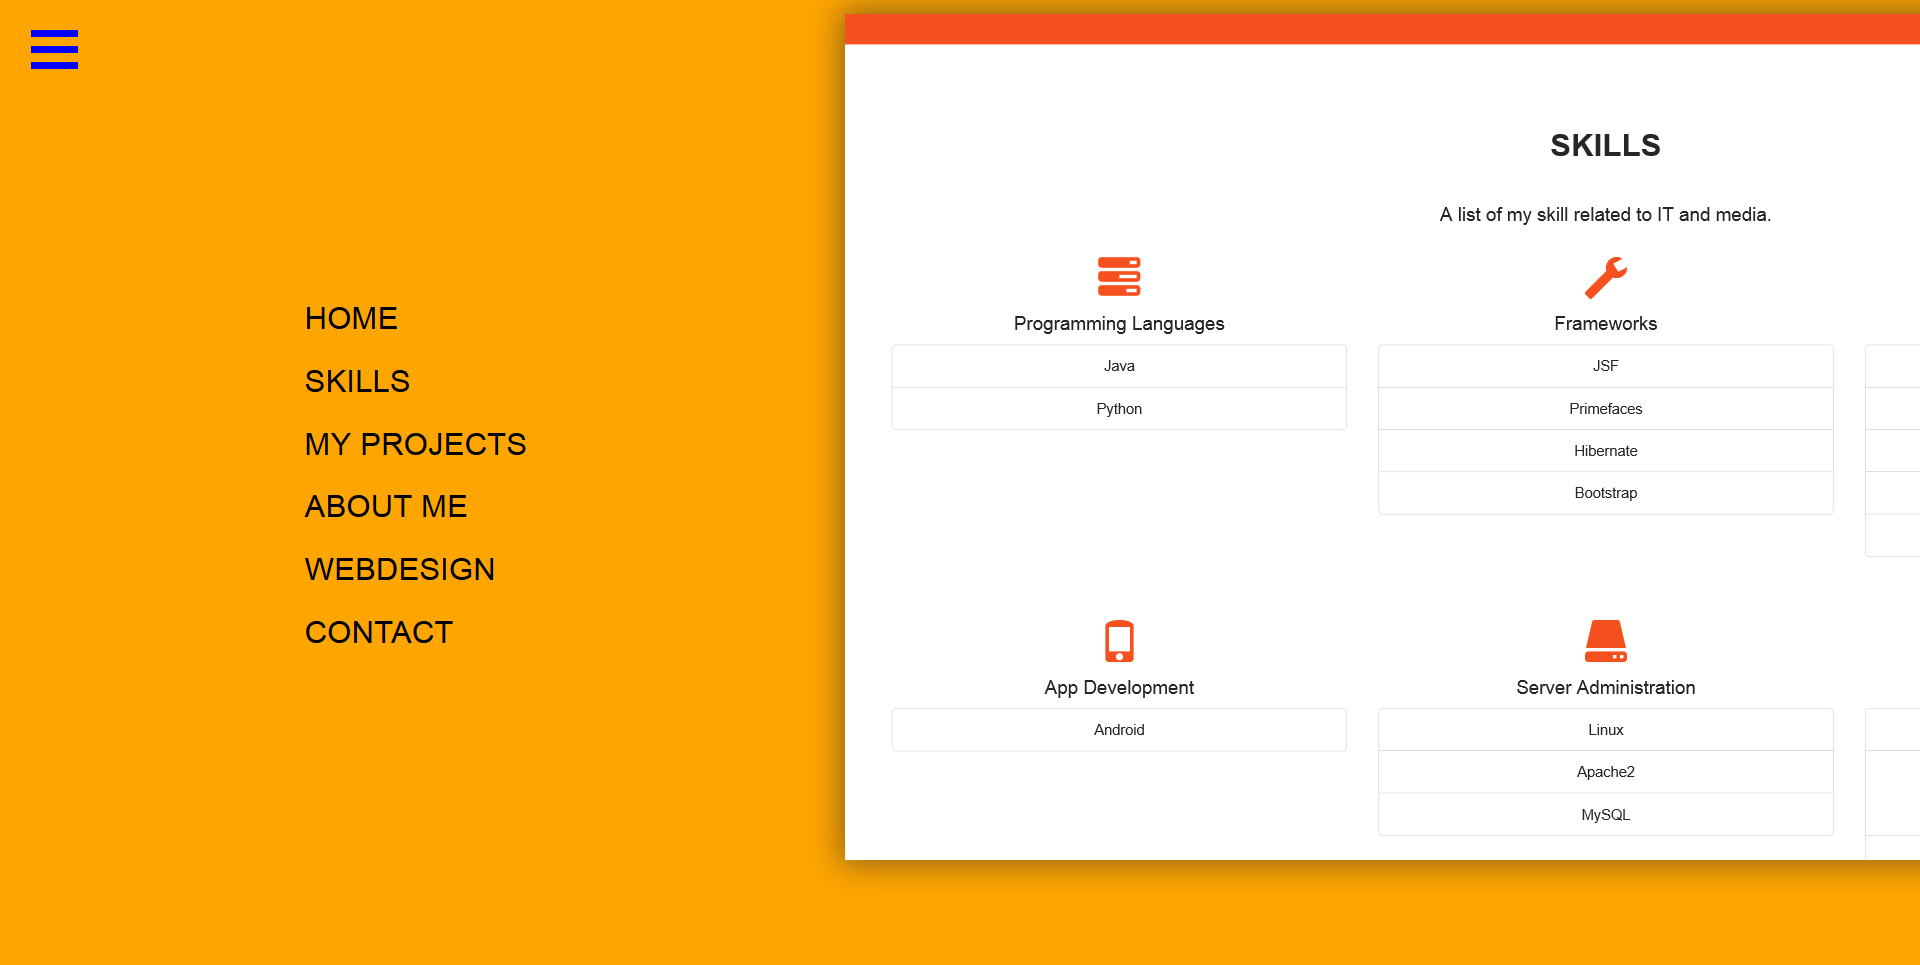
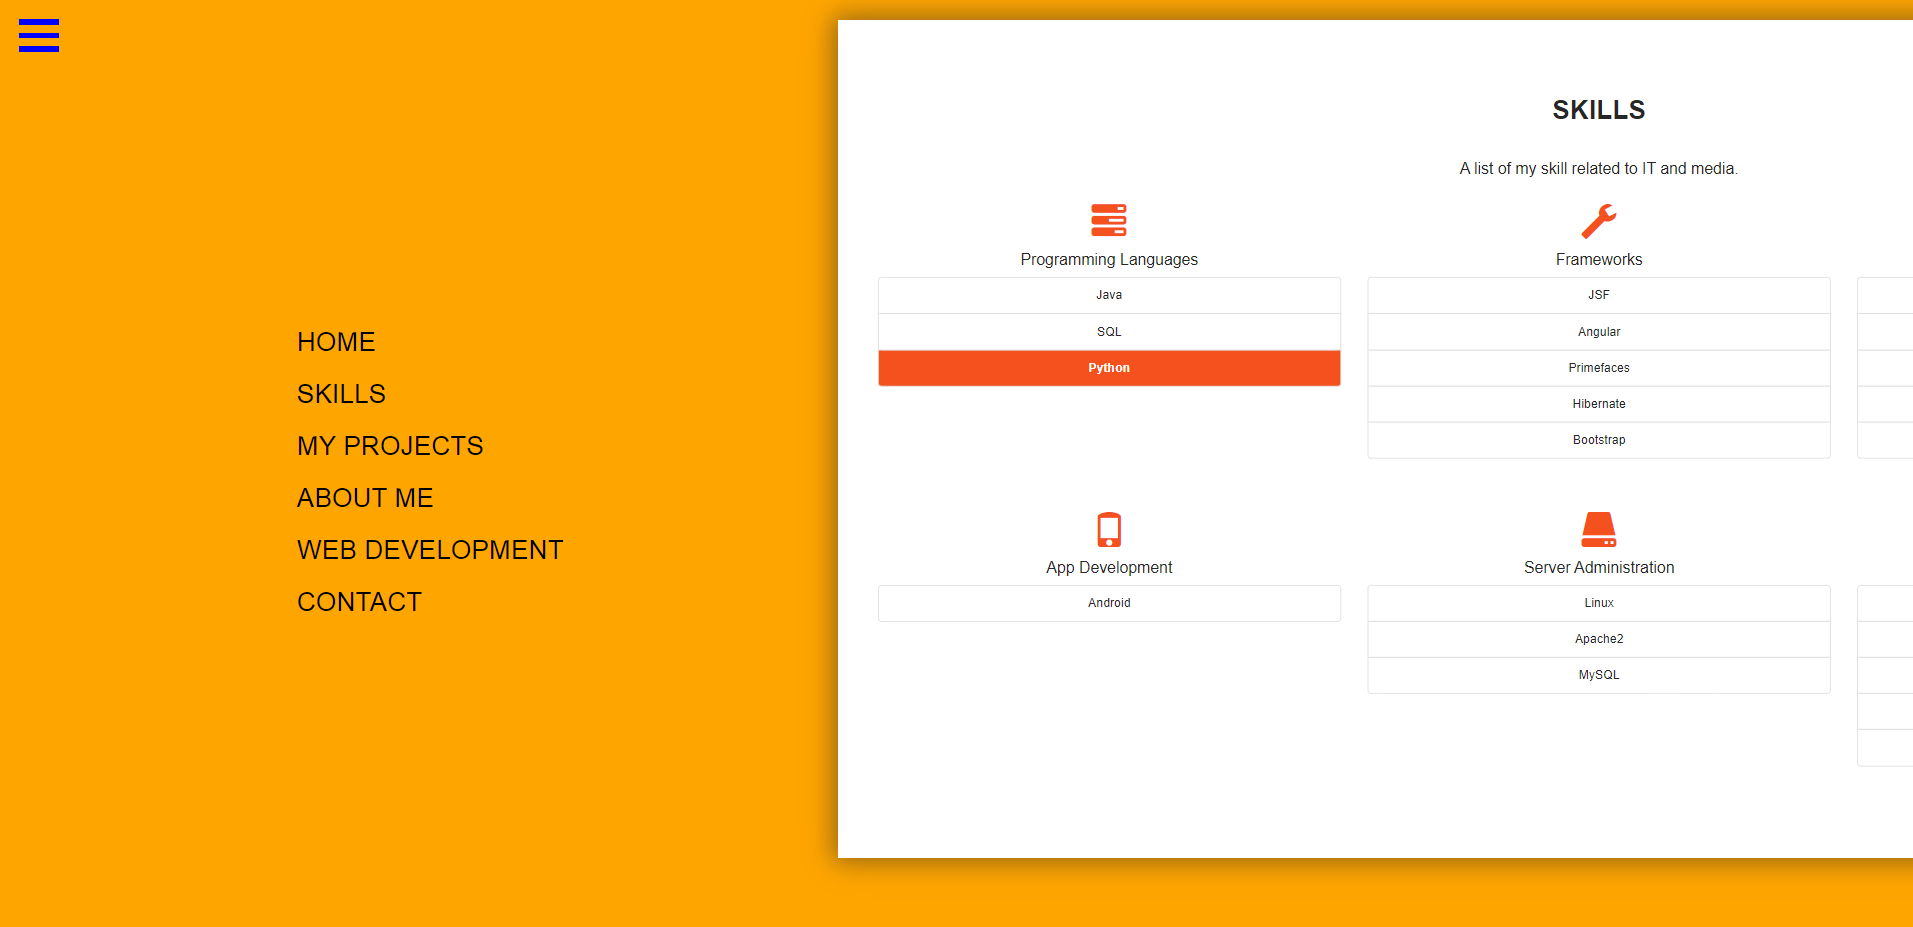
new project add

diff --git a/js/contact_app.js b/js/contact_app.js
@@ -1,45 +1,66 @@
-$(function () {
-    var form = $('#email-contact-form');
-    var formMessages = $('#form-messages');
+(function loadContactForm() {
+    var contactFormFields = {
+        name: document.getElementById("name"),
+        email: document.getElementById("email"),
+        message: document.getElementById("message"),
+        submitButton: document.getElementById("submitcontactform"),
+    };
+    var formMessages = document.getElementById("form-messages");
 
-    // event listener for the contact form
-    $(form).submit(function (event) {
-        // Stop the browser from submitting the form
+    contactFormFields.submitButton.addEventListener("click", function (event) {
         event.preventDefault();
+        var contactFormRequest = new XMLHttpRequest();
+        var contactFormRequestData;
 
-        // Serializing the form data.
-        var formData = $(form).serialize();
-        //Submit form through AJAX
-        $.ajax({
-            type: 'POST',
-            url: $(form).attr('action'),
-            data: formData
-        }).done(function (response) {
-            // Add sucess message class to the formmessages Div
-            $(formMessages).removeClass('alert alert-danger alert-dismissible')
-            $(formMessages).addClass('alert alert-success alert-dismissible')
-            //Setting the message text
-            $(formMessages).text(response)
-            //clear the contact form
-            $("#name").val('');
-            $("#emal").val('');
-            $("#message").val('');
-        }).fail(function (data) {
-            // Add error message class to the formmessages Div
-            $(formMessages).removeClass('alert alert-success alert-dismissible');
-            $(formMessages).addClass('alert alert-danger alert-dismissible');
-            // Set the message text.
-            if (data.responseText !== '') {
-                if ((data.responseText).length > 20) {
-                    //Sending php emails does not work on this server
-                    $(formMessages).text('' + data.responseText);
-                } else {
-                    $(formMessages).text(' ' + data.responseText);
-                }
+        if (typeof HtmlSanitizer !== "undefined") {
+            //Sanitize output with HtmlSanitizer - https://github.com/jitbit/HtmlSanitizer
+            contactFormRequestData = "name=" + HtmlSanitizer.SanitizeHtml(contactFormFields.name.value) + "&email=" + HtmlSanitizer.SanitizeHtml(contactFormFields.email.value) + "&message=" + HtmlSanitizer.SanitizeHtml(contactFormFields.message.value);
+        } else {
+            contactFormRequestData = "name=" + contactFormFields.name.value + "&email=" + contactFormFields.email.value + "&message=" + contactFormFields.message.value;
+        }
+
+        contactFormRequest.open("post", "email_contact_form.php");
+        contactFormRequest.setRequestHeader("Content-Type", "application/x-www-form-urlencoded");
+
+        contactFormRequest.onload = function () {
+
+            if (contactFormRequest.status === 200) {
+                //Success
+                formMessages.classList.remove("alert");
+                formMessages.classList.remove("alert-danger");
+                formMessages.classList.remove("alert-dismissible");
+                formMessages.classList.add("alert");
+                formMessages.classList.add("alert-success");
+                formMessages.classList.add("alert-dismissible");
+                formMessages.innerText = contactFormRequest.responseText;
+                document.getElementById("submitcontactform").style.display = "none";
+                document.getElementById("name").value = "";
+                document.getElementById("email").value = "";
+                document.getElementById("message").value = "";
             } else {
-                $(formMessages).text('Sorry. An error occured and your message could not be sent. Please check your entered values or try again later.');
+                //Fail
+                console.log("ERROR - FORM EMAIL NOT SENT");
+                formMessages.classList.remove("alert");
+                formMessages.classList.remove("alert-success");
+                formMessages.classList.remove("alert-dismissible");
+                formMessages.classList.add("alert");
+                formMessages.classList.add("alert-danger");
+                formMessages.classList.add("alert-dismissible");
+                formMessages.innerText = contactFormRequest.responseText;
             }
-        });
+        }
+        contactFormRequest.onerror = function () {
+            //Server Error
+            console.log("Server Error - FORM EMAIL NOT SENT");
+            formMessages.classList.remove("alert");
+            formMessages.classList.remove("alert-success");
+            formMessages.classList.remove("alert-dismissible");
+            formMessages.classList.add("alert");
+            formMessages.classList.add("alert-danger");
+            formMessages.classList.add("alert-dismissible");
+            formMessages.innerText = contactFormRequest.responseText;
+        }
+        contactFormRequest.send(contactFormRequestData);
     });
+}());
 
-});

diff --git a/de.html b/de.html
@@ -35,7 +35,7 @@
             <li><a href="#skills">Fähigkeiten</a></li>
             <li><a href="#projects">Projekte</a></li>
             <li><a href="#aboutme">Über mich</a></li>
-            <li><a href="#webdesign">Webdesign</a></li>
+            <li><a href="#webdevelopment">Web-Entwicklung</a></li>
             <li><a href="#contact">Kontakt</a></li>
         </ul>
     </nav>
@@ -626,8 +626,8 @@
             </div>
         </div>
 
-        <div id="webdesign" class="container-content container-grey">
-            <h2 class="section-content-header">Webdesign</h2>
+        <div id="webdevelopment" class="container-content container-grey">
+            <h2 class="section-content-header">Web Development</h2>
             <br>
             <div class="container-fluid">
                 <div class="row">
@@ -642,7 +642,7 @@
                             <br>
                             <br>
                             <br>
-                            Sie können einige meiner erstellten Webseiten auf meiner anderen Webdesign
+                            Sie können einige meiner erstellten Webseiten auf meiner anderen Webentwicklung
                             Portfolio-Webseite ansehen, die Sie über den untenstehenden Button erreichen können.
                             <br>
                             <br>
@@ -656,7 +656,7 @@
                             <br>
                             <a target="_blank" href="https://webdesign.ard-site.net/"><button type="button"
                                     class="btn btn-info"
-                                    style="margin-right: 20px;color:white;font-weight: bold;">Webdesign-Portfolio
+                                    style="margin-right: 20px;color:white;font-weight: bold;">Webentwicklung-Portfolio
                                     anschauen</button></a>
                             <br>
                             <br>
@@ -775,11 +775,13 @@
     </div>
 
     <script defer src="js/script.js"></script>
+    <script defer src="js/contact_app.js"></script>
+
     <script src="https://www.google.com/recaptcha/api.js?onload=onloadCallback&render=explicit" async defer></script>
     <script>
         var onloadCallback = function () {
             grecaptcha.render("checkrecaptcha", {
-                "sitekey": "XXXXXXXXXXXXXXXXX",
+                "sitekey": "XXXXXXXXX",
                 "badge": "inline",
                 "type": "image",
                 "size": "invisible",

diff --git a/en.html b/en.html
@@ -34,7 +34,7 @@
             <li><a href="#skills">Skills</a></li>
             <li><a href="#projects">My Projects</a></li>
             <li><a href="#aboutme">About me</a></li>
-            <li><a href="#webdesign">Webdesign</a></li>
+            <li><a href="#webdevelopment">Web Development</a></li>
             <li><a href="#contact">Contact</a></li>
         </ul>
     </nav>
@@ -643,8 +643,8 @@
             </div>
         </div>
 
-        <div id="webdesign" class="container-content container-grey">
-            <h2 class="section-content-header">Webdesign</h2>
+        <div id="webdevelopment" class="container-content container-grey">
+            <h2 class="section-content-header">Web Development</h2>
             <br>
             <div class="container-fluid">
                 <div class="row">
@@ -659,7 +659,7 @@
                             <br>
                             <br>
                             <br>
-                            You can view some of my created websites on my other webdesign portfolio website, which
+                            You can view some of my created websites on my other web development portfolio website, which
                             can
                             be accessed through the button below.
                             <br>
@@ -675,7 +675,7 @@
                             <br>
                             <a target="_blank" href="https://webdesign.ard-site.net/"><button type="button"
                                     class="btn btn-info" style="margin-right: 20px;color:white;font-weight: bold;">View
-                                    webdesign portfolio</button></a>
+                                    web development portfolio</button></a>
                             <br>
                             <br>
                             <br>
@@ -798,11 +798,12 @@
     <script defer src="js/script.js"></script>
     <script defer src="js/contact_app.js"></script>
 
+
     <script src="https://www.google.com/recaptcha/api.js?onload=onloadCallback&render=explicit" async defer></script>
     <script>
         var onloadCallback = function () {
             grecaptcha.render("checkrecaptcha", {
-                "sitekey": "XXXXXXXXXXXXXX",
+                "sitekey": "XXXXXXXXXXXXXXX",
                 "badge": "inline",
                 "type": "image",
                 "size": "invisible",

diff --git a/fr.html b/fr.html
@@ -35,7 +35,7 @@
             <li><a href="#skills">Compétences</a></li>
             <li><a href="#projects">Mes Projets</a></li>
             <li><a href="#aboutme">À propos de moi</a></li>
-            <li><a href="#webdesign">Webdesign</a></li>
+            <li><a href="#webdevelopment">Développement web</a></li>
             <li><a href="#contact">Contact</a></li>
         </ul>
     </nav>
@@ -627,8 +627,8 @@
             </div>
         </div>
 
-        <div id="webdesign" class="container-content container-grey">
-            <h2 class="section-content-header">Webdesign</h2>
+        <div id="webdevelopment" class="container-content container-grey">
+            <h2 class="section-content-header">Développement web</h2>
             <br>
             <div class="container-fluid">
                 <div class="row">
@@ -644,7 +644,7 @@
                             <br>
                             <br>
                             Vous pouvez voir certains de mes sites Web créés sur mon autre site Web de portefeuille de
-                            webdesign, qui peut être accédé par le bouton ci-dessous.
+                            développement web, qui peut être accédé par le bouton ci-dessous.
                             <br>
                             <br>
                             <br>
@@ -656,7 +656,7 @@
                             <br>
                             <a target="_blank" href="https://webdesign.ard-site.net/"><button type="button"
                                     class="btn btn-info" style="margin-right: 20px;color:white;font-weight: bold;">Voir
-                                    le webdesign portfolio</button></a>
+                                    le portfolio développement web </button></a>
                             <br>
                             <br>
                             <br>
@@ -775,6 +775,7 @@
 
     <script defer src="js/script.js"></script>
     <script defer src="js/contact_app.js"></script>
+
 
     <script src="https://www.google.com/recaptcha/api.js?onload=onloadCallback&render=explicit" async defer></script>
     <script>

diff --git a/style.css b/style.css
@@ -426,7 +426,7 @@ nav>ul>li a {
     text-align: center;
     font-size: 18px;
     padding: 20px;
-    min-width: 300px;
+    min-width: 40px;
     transition: all 0.5s;
     cursor: pointer;
     margin: 5px;
